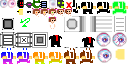
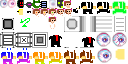
Add Ladymaker helmet weapon - spawns girls when pressing F

Changed region(s): [[0.4688, 0.0, 0.625, 0.125], [0.6562, 0.75, 0.7188, 0.7812], [0.5312, 0.75, 0.5938, 0.7812]]

diff --git a/appObjects.js b/appObjects.js
@@ -744,7 +744,7 @@ class KeyItem extends GameObject
 ///////////////////////////////////////////////////////////////////////////////
 
 // Item type definitions
-// Order: Life (0), Health (1), Laser (2), Cannon (3), Jumper (4), Hammer (5), Radar (6), Smoker (7), Fang (8)
+// Order: Life (0), Health (1), Laser (2), Cannon (3), Jumper (4), Hammer (5), Radar (6), Smoker (7), Fang (8), Ladymaker (9)
 const itemType_life = 0;
 const itemType_health = 1;
 const itemType_laser = 2;
@@ -754,6 +754,7 @@ const itemType_hammer = 5;
 const itemType_radar = 6;
 const itemType_smoker = 7;
 const itemType_fang = 8;
+const itemType_ladymaker = 9;
 
 const itemType_consumable = 0;
 const itemType_equipable = 1;
@@ -805,11 +806,16 @@ const itemRegistry = {
         category: itemType_equipable, 
         tileIndex: 8, 
         weaponType: 'FangWeapon' 
+    },
+    [itemType_ladymaker]: { 
+        category: itemType_equipable, 
+        tileIndex: 9, 
+        weaponType: 'LadymakerWeapon' 
     }
 };
 
 // Get all available item types for random selection
-const getAllItemTypes = ()=> [itemType_life, itemType_health, itemType_laser, itemType_cannon, itemType_jumper, itemType_hammer, itemType_radar, itemType_smoker, itemType_fang];
+const getAllItemTypes = ()=> [itemType_life, itemType_health, itemType_laser, itemType_cannon, itemType_jumper, itemType_hammer, itemType_radar, itemType_smoker, itemType_fang, itemType_ladymaker];
 
 ///////////////////////////////////////////////////////////////////////////////
 
@@ -1877,6 +1883,74 @@ class FangWeapon extends Weapon
         {
             // Not pressing F, reset buffer
             this.fireTimeBuffer = min(this.fireTimeBuffer, 0);
+        }
+    }
+}
+
+///////////////////////////////////////////////////////////////////////////////
+
+class LadymakerWeapon extends Weapon
+{
+    constructor(pos, parent)
+    {
+        super(pos, parent);
+        this.fireTimeBuffer = 0;
+        this.fireRate = 0.5; // Spawns 1 every 2 seconds (1/2 = 0.5)
+        this.hidden = 1; // Don't render the weapon sprite (helmet is rendered separately)
+        this.hasSpawnedThisPress = 0; // Track if we've spawned on current F press
+    }
+    
+    update()
+    {
+        super.update();
+        
+        // Only handle girl spawning for player
+        if (!this.parent.isPlayer)
+            return;
+        
+        // Check if F key is pressed (key code 70)
+        const pressingF = !this.parent.playerIndex && keyIsDown(70);
+        
+        if (pressingF)
+        {
+            this.fireTimeBuffer += timeDelta;
+            const rate = 1/this.fireRate; // 2 seconds
+            
+            // Spawn immediately on first press, then every 2 seconds while holding
+            const shouldSpawn = !this.hasSpawnedThisPress || this.fireTimeBuffer >= rate;
+            
+            if (shouldSpawn)
+            {
+                // Calculate spawn position - throw girl out in front of player
+                const sizeScale = this.parent.sizeScale || 1;
+                const forwardOffset = vec2(this.parent.getMirrorSign(0.8), 0).scale(sizeScale);
+                const spawnPos = this.parent.pos.add(forwardOffset);
+                
+                // Create new girl
+                const girl = new Girl(spawnPos);
+                
+                // Add to survivingGirls array if it exists
+                if (typeof survivingGirls !== 'undefined')
+                {
+                    survivingGirls.push(girl);
+                }
+                
+                // Give girl a small forward velocity to "throw" her out
+                girl.velocity = vec2(this.parent.getMirrorSign(0.3), 0.1);
+                
+                // Play sound
+                playSound(sound_checkpoint, spawnPos);
+                
+                // Update spawn tracking
+                this.fireTimeBuffer -= rate;
+                this.hasSpawnedThisPress = 1;
+            }
+        }
+        else
+        {
+            // Not pressing F, reset buffer and spawn flag
+            this.fireTimeBuffer = min(this.fireTimeBuffer, 0);
+            this.hasSpawnedThisPress = 0;
         }
     }
 }

diff --git a/appCharacters.js b/appCharacters.js
@@ -4068,6 +4068,8 @@ class Player extends Character
             newWeapon = new SmokerWeapon(this.pos, this);
         else if (weaponType == 'FangWeapon')
             newWeapon = new FangWeapon(this.pos, this);
+        else if (weaponType == 'LadymakerWeapon')
+            newWeapon = new LadymakerWeapon(this.pos, this);
         else
             newWeapon = new Weapon(this.pos, this);
         
@@ -4102,6 +4104,8 @@ class Player extends Character
                 itemType = typeof itemType_smoker !== 'undefined' ? itemType_smoker : 7;
             else if (currentWeaponType == 'FangWeapon')
                 itemType = typeof itemType_fang !== 'undefined' ? itemType_fang : 8;
+            else if (currentWeaponType == 'LadymakerWeapon')
+                itemType = typeof itemType_ladymaker !== 'undefined' ? itemType_ladymaker : 9;
             
             // Create item slightly away from player so it doesn't immediately get collected
             if (itemType >= 0)

diff --git a/app.js b/app.js
@@ -594,6 +594,8 @@ engineInit(
                     headwearTileIndex = 7; // itemType_smoker tileIndex
                 else if (player.equippedWeaponType == 'FangWeapon')
                     headwearTileIndex = 8; // itemType_fang tileIndex
+                else if (player.equippedWeaponType == 'LadymakerWeapon')
+                    headwearTileIndex = 9; // itemType_ladymaker tileIndex
                 
                 if (headwearTileIndex >= 0 && typeof drawTile2 === 'function')
                 {
